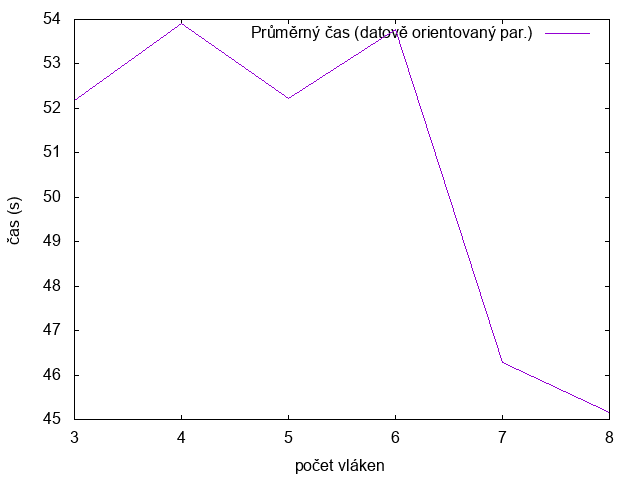
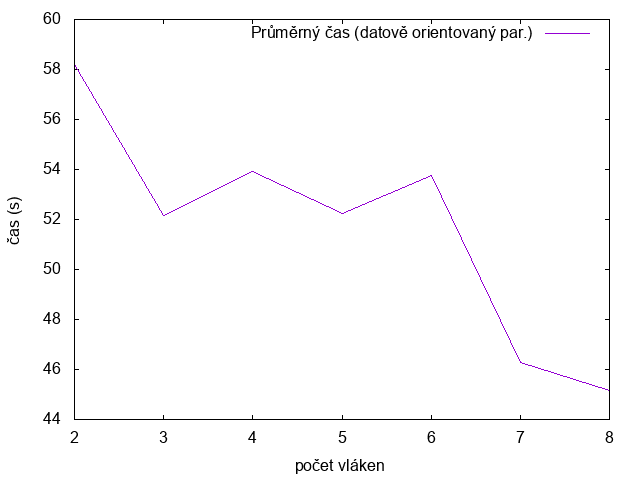
Add measurement results

diff --git a/report/report.tex b/report/report.tex
@@ -6,6 +6,7 @@
 \usepackage[a4paper,textheight=674pt]{geometry}
 \usepackage{hyperref}
 \usepackage{graphicx}
+\usepackage{float}
 
 \begin{document}
 \begin{center}\large
@@ -27,7 +28,7 @@ Tento problém je zadán jako šachovnice (o velikosti $n$), kolekce souřadnic 
 Má-li úloha řešení, pak horní mez pro sebrání pěšců je rovna $3 \cdot q$, kde $q$ je počet pěšců.
 Tato horní mez je mnohdy výrazně vyšší než skutečné řešení, z tohoto důvodu program očekává dodatečnou informaci o horním odhadu.
 
-Složitost tohoto algoritmu při řešení hrubou silou je (doplnit).
+Složitost tohoto algoritmu při řešení hrubou silou je exponencionální.
 Pro vstupy o malých rozměrech šachovnice je možné problém tímto způsobem řešit.
 Časová složit ale roste exponencionálně s velikostí vstupu, pro velké $n$ je tak možné, že program nenalezne řešení v konečném čase.
 
@@ -54,8 +55,6 @@ V rekurzivní funkci je následně možné odhalit, že cesta nebude řešením,
 Tyto optimalizace jsem v úvodu představil jako metodu ořezávání větví.
 
 V implementaci není využito žádných heuristik, z tohoto důvodu je pravděpodobně oproti referenčnímu řešení u větších vstupních dat zhruba dvakrát pomaleší.
-
-Měření (doplnit).
 
 \section{Popis paralelního algoritmu a jeho implementace\\v OpenMP}
 
@@ -133,6 +132,83 @@ Vlákno, které objekt příjme provede opačný postup a sestaví si komplexní
 Dále může pracovat stejným způsobem, jako při implementaci s \textit{OpenMP}.
 
 \section{Naměřené výsledky a vyhodnocení}
+
+Pro porovnávání jednotlivých přístupů k řešení je důležité volit takové vstupy, aby paralelní řešení nemělo na synchronizaci vláken (procesů) větší režii než je samotná doba výpočtu.
+Dle mého měření to byly takové vstupy, u kterých sekvenční algoritmus vrátil výsledek v nízkých jednotkách vteřin.
+Vzhledem k exponencionální časové složitosti sekvenčního řešení je ale důležité zároveň vybrat takový vstup, pro který sekvenční řešení vrátí výsledek v přijatelném čase.
+
+Z tohoto důvodu jsem vybral vstup, pro který sekvenční řešení vrátí výsledek za $29,15$ vteřin (průměr pro 5 měření).
+
+Měření si klade za cíl zjistit efektivitu paralelního výpočtu při škálování na počítačovém klastru.
+Bohužel se mi nepodařilo včas vytvořit testovací data.
+Z tohoto důvodu jsem měření provedl na osobním zařízení.
+
+\subsection{Taskově orientovaný paralelismus}
+
+Pro taskově orientovaný paralelismus jsem vybral měření pro $2-8$ vláken.
+Od měření lze očekávat, že s rostoucím počtem vláken se čas bude zmenšovat v poměru $\frac{t}{n}$, kde $t$ je čas sekvenčního řešení a $n$ počet vláken.
+
+Na grafu \ref{fig:task} je vidět, že optimální konfigurace se pohybuje okolo 4 až 6 souběžných vláken, přičemž pro 4 vlákna dosáhl algoritmus nejlepšího výsledku.
+Je vidět, že paralelizace je pro algoritmus přínosem jen pro určité vstupy.
+To je pravděpodobně zapříčeněno tím, že režie na synchronazaci vláken je postupně vyšší a vlákna se začnou navzájem brzdit.
+
+I přes zvyšující se trend časové složitosti (od 4 vláken) je přínos značný.
+V nejlepší konfiguraci vrátil algoritmus výsledek zhruba třikát rychleji než při sekvenčním řešení.
+
+Při ohledu na nízkou náročnost implementace tohoto typu paralelizace lze usoudit, že výsledek je velmi dobrý.
+
+\begin{figure}[H]
+    \centering
+    \includegraphics[width=0.8\textwidth]{assets/parallel-task-oriented.png}
+    \caption{Taskový paralelismus -- závislost na počtu vláken}
+    \label{fig:task}
+\end{figure}
+
+\subsection{Datově orientovaný paralelismus}
+
+Pro taskově orientovaný paralelismus jsem zvolil stejný vstupní soubor a měření provedl na stejném vzorku vláken.
+Protože výpočet opět probíhá paralelně, měření by mělo mít podobný výsledek jako u taskového paralelismu.
+Výsledné časy mohou být zatížené tím, že jednotlivá vlákna vždy pracují s velkými instancemi, což by časovou náročnost mohlo negativně ovlivnit.
+
+Graf \ref{fig:data} znázorňuje časovou náročnost tohoto řešení.
+Proti všem očekáváním je výsledek podstatně horší, než u datového paralelismu.
+Časy ovšem přesahují i složitost sekvenčního řešení.
+
+Pro ověření správnosti měření jsem proto sledoval zatížení jednotlivých vláken v průběhu výpočtu.
+Pro malý počet vláken program dlouho pracuje sekvenčně, to je zapříčeněno sestavováním fronty na začátku výpočtu.
+Po sestavení fronty se vláknům předávájí počáteční stavy, které jsou ale příliš velké a nevytěžují vlákna rovnoměrně.
+
+\begin{figure}[H]
+    \centering
+    \includegraphics[width=0.8\textwidth]{assets/parallel-data-oriented.png}
+    \caption{Datově paralelismus -- závislost na počtu vláken (velikost vstupní fronty 8)}
+    \label{fig:data}
+\end{figure}
+
+Abych svou domněnku o závislosti výpočtu na počtu vláken potvrdil rozhodl jsem se měření opakovat s různými velikostmi počáteční fronty.
+Při měření jsme vyzkoušel fronty o velikost 20, 30 40 a 50.
+Přestože u velikosti 50 čas mírně poklesl, nebyl rozdíl větší než $10\%$.
+
+Poslední měření jsem provedl na frontě o velikosti 70 aby zjistil, jestli nenastane klesající trend.
+Pro tuto velikost už měření dosáhlo velmi dobrých výsledků.
+Zlepšení u běhu na 8 vláknech dosáhlo vynikajících $90\%$ (tedy čas klesl na $10\%$ původního měření).
+Výsledek měření je vidět na obrázku \ref{fig:data-2}
+
+\begin{figure}[H]
+    \centering
+    \includegraphics[width=0.8\textwidth]{assets/parallel-data-oriented-2.png}
+    \caption{Datově paralelismus -- závislost na počtu vláken (velikost vstupní fronty 70)}
+    \label{fig:data-2}
+\end{figure}
+
+Při efektivitě pro 8 souběžných vláken odpovídá doba výpočtu přibližně poměru $\frac{t}{n}$, který jsem od měření očekával.
+Algoritmus s tímto nastavením je efektivnějíší než taskový paralelismus.
+
+\subseciton{Paralelismus s MPI}
+
+Jak jsem zmínil v úvodu kapitoly o měření, testovací data pro paralelní výpočet v klastru se mi nepodařilo získat.
+Měřit efektivitu na osobním zařízení nemá vypovídací hodnotu, protože na jednom počítači degraduje na datový paralelismus, který je ale navíc zatížen meziprocesovou komunikací.
+Z tohoto důvodu jsem měření \textit{MPI} vynechal.
 
 \section{Závěr}
 

diff --git a/semester-project/semester-project/main.cpp b/semester-project/semester-project/main.cpp
@@ -13,6 +13,7 @@
 #include "PiecesMinimalCoverage.hpp"
 #include "DataOrientedCoverage.hpp"
 #include "Time.hpp"
+#include <chrono>
 
 using namespace std;
 
@@ -38,12 +39,15 @@ int main(int argc, const char * argv[]) {
         ChessBoard chessboard = Reader::readInput(fileName);
         DataOrientedCoverage solver(chessboard);
         Time start;
+        auto startt = chrono::high_resolution_clock::now();
         CoverageSolution solution = solver.minimalCoverage();
+        auto ep = chrono::high_resolution_clock::now();
+        std::chrono::duration<double> el = ep - startt;
 
         cout << "::::: File: " << fileName << " :::::"  << endl;
         cout << "Minimal steps needed: " << solution.size() - 1 << endl;
         cout << solution << endl;
-        cout << "::::: Time: " << Time().delta(start) << " :::::" << endl << endl;
+        cout << "::::: Time: " << el.count() << " :::::" << endl << endl;
     }
 
     return 0;

diff --git a/semester-project/semester-project/Services/PiecesMinimalCoverage.cpp b/semester-project/semester-project/Services/PiecesMinimalCoverage.cpp
@@ -26,7 +26,6 @@ CoverageSolution PiecesMinimalCoverage::minimalCoverage() {
 
 void PiecesMinimalCoverage::findPath(const Location &location, CoverageSolution currentSolution,
                                      uint32_t currentDepth, uint32_t blacksTaken) {
-
     // Check the terminating condition
     if(bestSolution.size() - 1 == chessboard.numberOfBlackPieces ||
        currentDepth > chessboard.upperBound ||

diff --git a/semester-project/semester-project/Services/DataOrientedCoverage.cpp b/semester-project/semester-project/Services/DataOrientedCoverage.cpp
@@ -24,7 +24,7 @@ CoverageSolution DataOrientedCoverage::minimalCoverage() {
 
 CoverageSolution DataOrientedCoverage::minimailCoverageWithInitial(DataParameters initialParameters) {
     deque<DataParameters> parametersQueue;
-    uint32_t maxQueueSize = 8;
+    uint32_t maxQueueSize = 70;
 
     parametersQueue.push_back(initialParameters);
 
